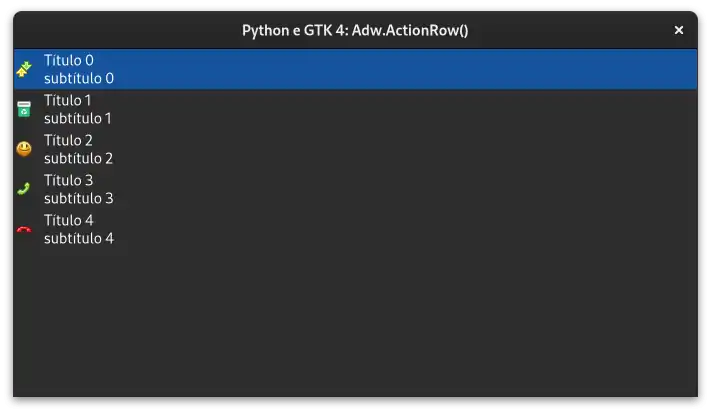
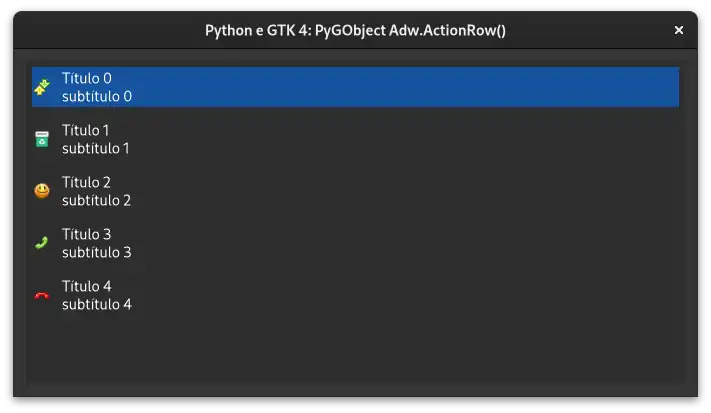
Atualizando imagens.

Changed region(s): [[0.0, 0.1162, 0.9902, 0.6392], [0.2785, 0.0581, 0.7117, 0.0872], [0.0309, 0.6683, 0.1857, 0.7554]]

diff --git a/src/gtk4-libadwaita/carousel-indicator-lines/MainWindow.py b/src/gtk4-libadwaita/carousel-indicator-lines/MainWindow.py
@@ -47,15 +47,12 @@ class MainWindow(Gtk.ApplicationWindow):
         vbox.append(child=self.adw_carousel)
 
         # Loop de repetição para criar os widgets.
-        for n in range(10):
+        for n in range(1, 11):
             page = Gtk.Box.new(orientation=Gtk.Orientation.VERTICAL, spacing=12)
             self.adw_carousel.insert(child=page, position=n)
 
             label = Gtk.Label.new(str=f'Página {n}')
             page.append(child=label)
-
-            # Adicionando os widgets a uma lista.
-            self.page_list.append(page)
 
         hdy_carousel_indicator_dots = Adw.CarouselIndicatorLines.new()
         hdy_carousel_indicator_dots.set_carousel(carousel=self.adw_carousel)

diff --git a/src/gtk4-libadwaita/carousel-indicator-dots/MainWindow.py b/src/gtk4-libadwaita/carousel-indicator-dots/MainWindow.py
@@ -47,15 +47,12 @@ class MainWindow(Gtk.ApplicationWindow):
         vbox.append(child=self.adw_carousel)
 
         # Loop de repetição para criar os widgets.
-        for n in range(2):
+        for n in range(1, 11):
             page = Gtk.Box.new(orientation=Gtk.Orientation.VERTICAL, spacing=12)
             self.adw_carousel.insert(child=page, position=n)
 
             label = Gtk.Label.new(str=f'Página {n}')
             page.append(child=label)
-
-            # Adicionando os widgets a uma lista.
-            self.page_list.append(page)
 
         adw_carousel_indicator_dots = Adw.CarouselIndicatorDots.new()
         adw_carousel_indicator_dots.set_carousel(carousel=self.adw_carousel)

diff --git a/docs/gtk4-widgets-libadwaita.md b/docs/gtk4-widgets-libadwaita.md
@@ -4,7 +4,7 @@
 
 - [Python](../src/gtk4-libadwaita/actionrow).
 
-![Python e GTK 4: Adw.ActionRow().](./images/gtk4-libadwaita/gtk-4-pygobject-adw-actionrow.webp)
+![Python e GTK 4: PyGObject Adw.ActionRow().](./images/gtk4-libadwaita/gtk-4-pygobject-adw-actionrow.webp)
 
 ---
 
@@ -12,7 +12,7 @@
 
 - [Python](../src/gtk4-libadwaita/avatar).
 
-![Python e GTK 4: Adw.Avatar().](./images/gtk4-libadwaita/gtk-4-pygobject-adw-avatar.webp)
+![Python e GTK 4: PyGObject Adw.Avatar().](./images/gtk4-libadwaita/gtk-4-pygobject-adw-avatar.webp)
 
 ---
 
@@ -20,7 +20,7 @@
 
 - [Python](../src/gtk4-libadwaita/carousel).
 
-![Python e GTK 4: Adw.Carousel().](./images/gtk4-libadwaita/gtk-4-pygobject-adw-carousel.webp)
+![Python e GTK 4: PyGObject Adw.Carousel().](./images/gtk4-libadwaita/gtk-4-pygobject-adw-carousel.webp)
 
 ---
 
@@ -28,7 +28,7 @@
 
 - [Python](../src/gtk4-libadwaita/carouselindicatordots).
 
-![Python e GTK 4: Adw.CarouselIndicatorDots().](./images/gtk4-libadwaita/gtk-4-pygobject-adw-carouselindicatordots.webp)
+![Python e GTK 4: PyGObject Adw.CarouselIndicatorDots().](./images/gtk4-libadwaita/gtk-4-pygobject-adw-carouselindicatordots.webp)
 
 ---
 
@@ -36,6 +36,6 @@
 
 - [Python](../src/gtk4-libadwaita/carouselindicatorlines).
 
-![Python e GTK 4: Adw.CarouselIndicatorLines().](./images/gtk4-libadwaita/gtk-4-pygobject-adw-carouselindicatorlines.webp)
+![Python e GTK 4: PyGObject Adw.CarouselIndicatorLines().](./images/gtk4-libadwaita/gtk-4-pygobject-adw-carouselindicatorlines.webp)
 
 ---
